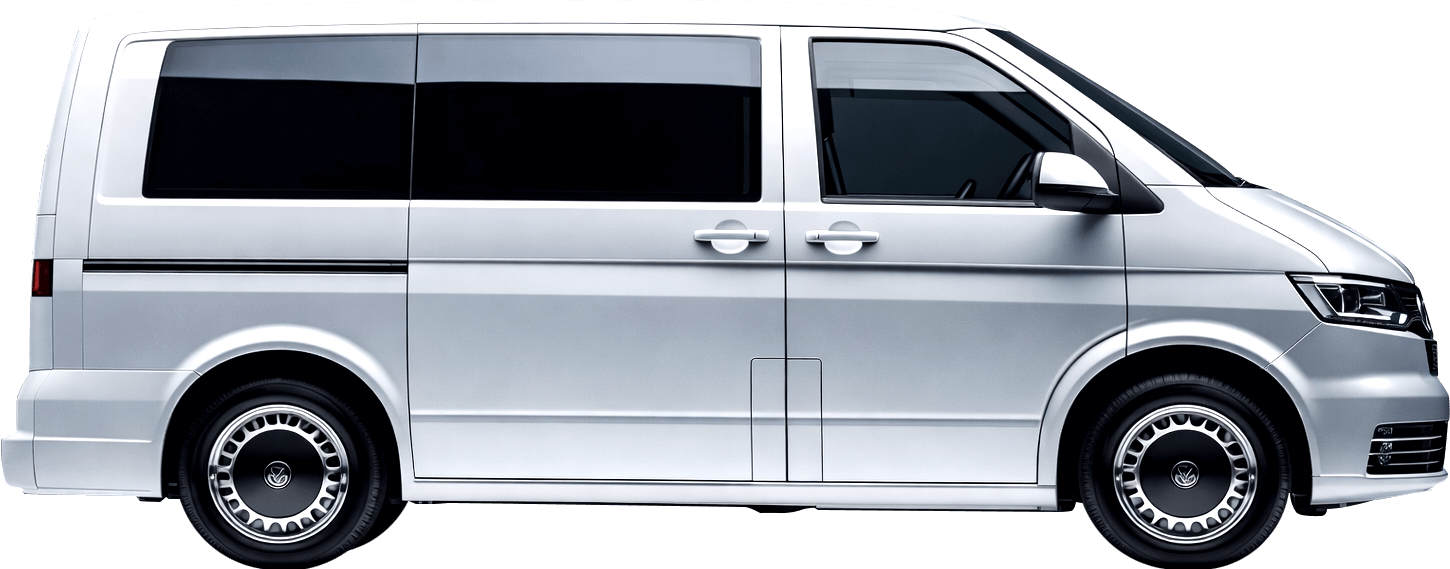
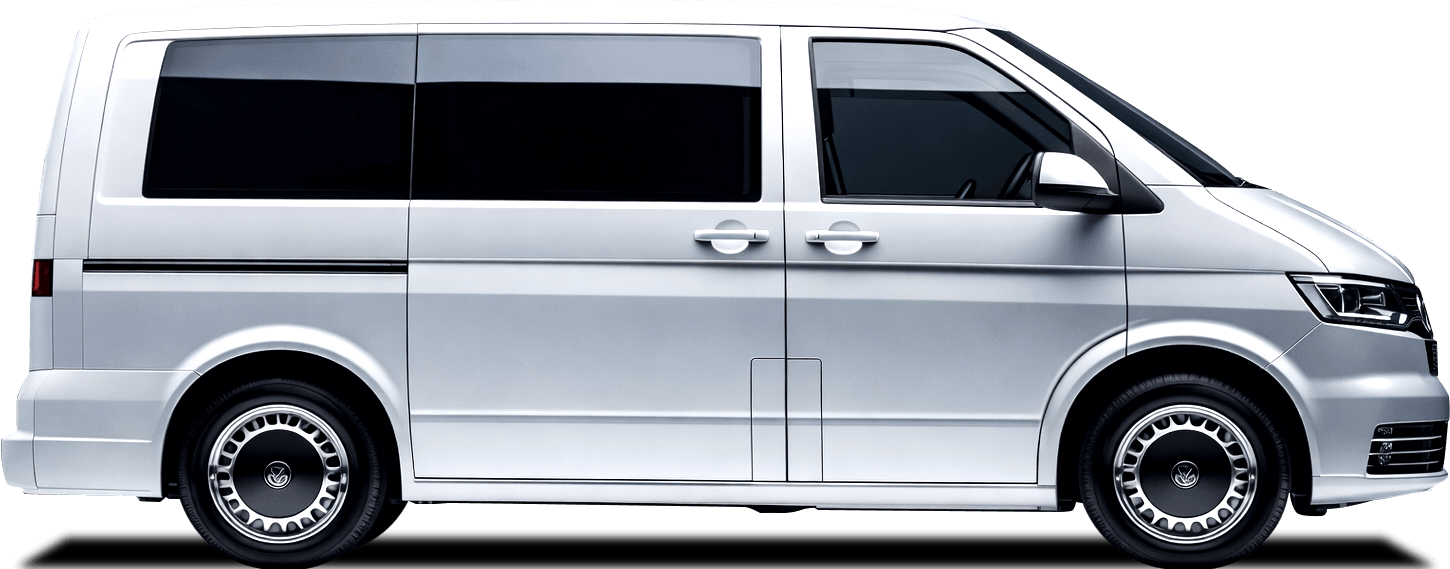
Hero section improvements adjustments

Changed region(s): [[0.2172, 0.9262, 0.8069, 1.0], [0.0, 0.9262, 0.1862, 1.0], [0.8379, 0.9262, 0.9931, 1.0]]

diff --git a/src/App.jsx b/src/App.jsx
@@ -83,17 +83,43 @@ const App = () => {
 
       </aside>
 
-      <section className='min-h-[95vh] pt-14 overflow-hidden relative bg-gray-900'>
-        <div className='h-[12%] w-full absolute bottom-0 bg-gradient-to-br from-slate-900 via-slate-800 to-slate-900'></div>
+      <section className='min-h-[95vh] xl:min-h-[98vh] 2xl:min-h-[95vh] pt-14 overflow-hidden relative gradient-black'>
+        <div className='h-[12%] w-full absolute bottom-0 gradient-floor'></div>
           <div class="max-w-screen-2xl m-auto h-stretch absolute w-full left-[50%] -translate-x-1/2 flex justify-center lg:justify-end">
             <div className='flex flex-col justify-start items-center lg:items-end pt-10 px-7 pb-5'>
-              <img src={mmcfHeroLogo} className='mb-[3%]' alt='Match:Me' />
-              <h2 className='text-4xl font-semibold text-white leading-16'>Find Your</h2>
-              <h1 className='text-8xl xl:text-9xl text-center lg:text-end font-bold text-white leading-[0.85]'>Perfect VAN<br className='hidden lg:block'></br> Deal</h1>
-              <h2 className='text-4xl font-semibold text-white leading-16'>in minutes</h2>
-              <img className='lg:hidden w-4/5' src={vanElegant} alt='Match:Me' />
+              <img src={mmcfHeroLogo} className='h-[6vh] lg:h-[7vh] mb-[3vh]' alt='Match:Me' />
+              <h2 className='text-4xl font-semibold text-white leading-[1.2em]'>Find Your</h2>
+              <h1 className='text-[10vh] lg:text-8xl xl:text-9xl text-center lg:text-end font-bold text-white leading-[0.8]'><span className='gradient-gray'>Perfect</span> <span className='gradient-orange'>VAN</span><br className='hidden lg:block'></br> <span className='gradient-gray'>Deal</span></h1>
+              <h2 className='text-4xl font-semibold text-white leading-[1.2em]'>in minutes</h2>
+              <form className='hidden lg:flex flex-col items-center gap-4 mt-[2vh] text-center w-[450px] bg-neutral-800/90 rounded-2xl px-7 py-12 xl:py-8'>
+                <h3 className='text-xl text-center text-white'>How much do you need?</h3>
+                <div className="relative w-[75%]">
+                  <span className="absolute left-0 top-1/2 -translate-y-1/2 text-3xl text-white">
+                    £
+                  </span>
+                  <input
+                    type="number"
+                    placeholder=""
+                    className="
+                      w-full
+                      bg-transparent
+                      border-b
+                      border-gray-300
+                      pl-8
+                      pb-2
+                      text-3xl
+                      text-white
+                      placeholder:text-gray-400
+                      focus:outline-none
+                      focus:border-white
+                    "
+                  />
+                </div>
+                <small className='font-sm text-light text-white'>No impact on your credit score</small>
+                <button className='w-fit bg-orange-500 rounded-full text-md font-light cursor-pointer text-white py-1 px-6'>Get started</button>
+              </form>
             </div>
-            <img className='van-elegant hidden lg:block absolute top-full left-[45%] xl:left-[50%] h-[calc(70vh-56px)] max-w-none -translate-y-1/4' src={vanElegant} alt='Match:Me' />
+            <img className='van-elegant absolute h-[40vh] top-full left-[98%] lg:left-[45%] xl:left-[50%] lg:h-[calc(85vh-56px)] max-w-none' src={vanElegant} alt='Match:Me' />
         </div>
       </section>
 

diff --git a/src/index.css b/src/index.css
@@ -4,8 +4,44 @@ body {
   font-family: 'Poppins', sans-serif;
 }
 .van-elegant {
-    transform: translate(-100%, calc(-100% + 80px));
+    transform: translate(-100%, calc(-100% - 24px));
 }
 .h-stretch {
   height: stretch;
+}
+.gradient-gray {
+  background: linear-gradient(
+    90deg,
+    #FCFCFC 0%,
+    #D9D9D9 51%,
+    #D0D0D0 84%,
+    #A4A4A4 100%
+  );
+  -webkit-background-clip: text;
+  -webkit-text-fill-color: transparent;
+  background-clip: text;
+}
+.gradient-orange {
+  background: linear-gradient(
+    90deg,
+    #FFC57E 0%,
+    #FFC66B 5%,
+    #FF8525 51%,
+    #FF8525 76%,
+    #FF691F 95%
+  );
+  -webkit-background-clip: text;
+  -webkit-text-fill-color: transparent;
+  background-clip: text;
+}
+.gradient-black {
+  background: linear-gradient(90deg, #000000 53%, #393939 100%);
+}
+@media only screen and (max-width:1023px) {
+  .gradient-black {
+    background: linear-gradient( 180deg, #000000 53%, #393939 100%);
+  }
+}
+.gradient-floor {
+  background: linear-gradient(90deg,#292929 0%,#505050 100%);
 }